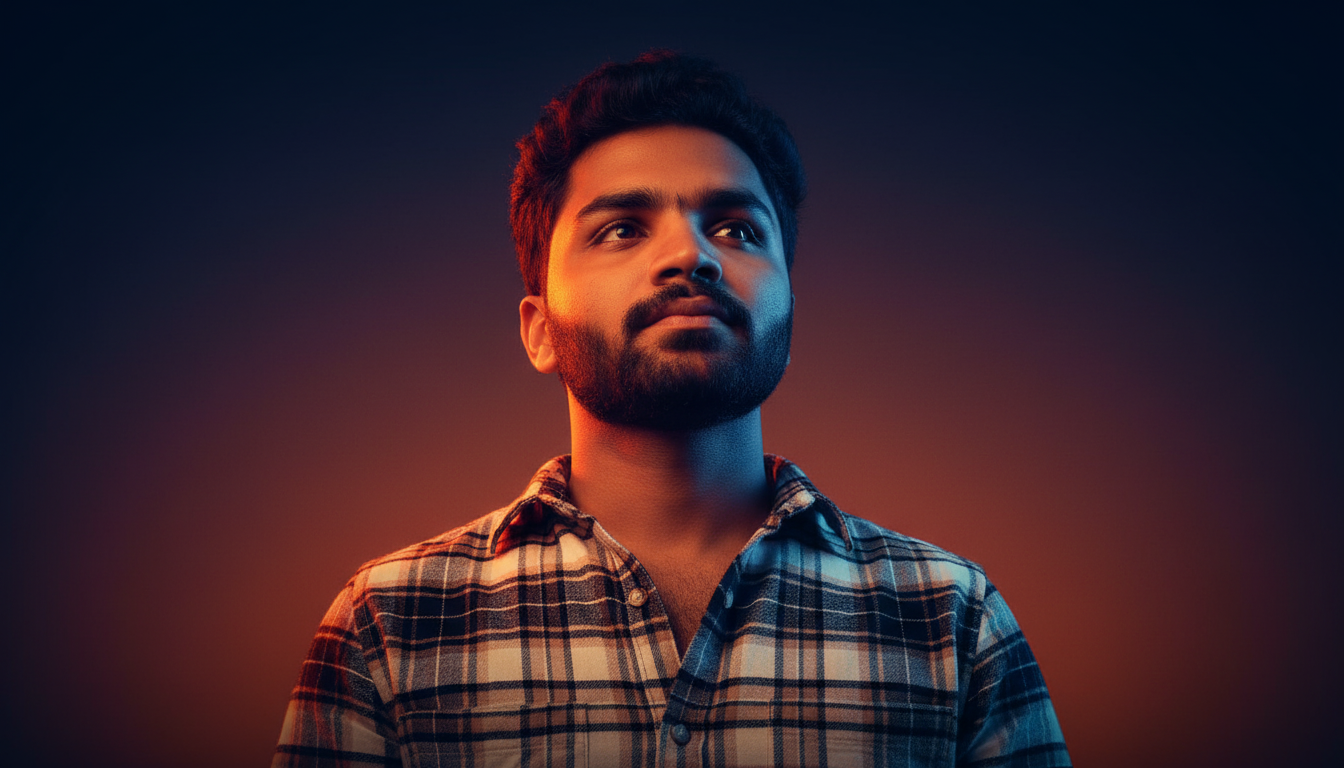
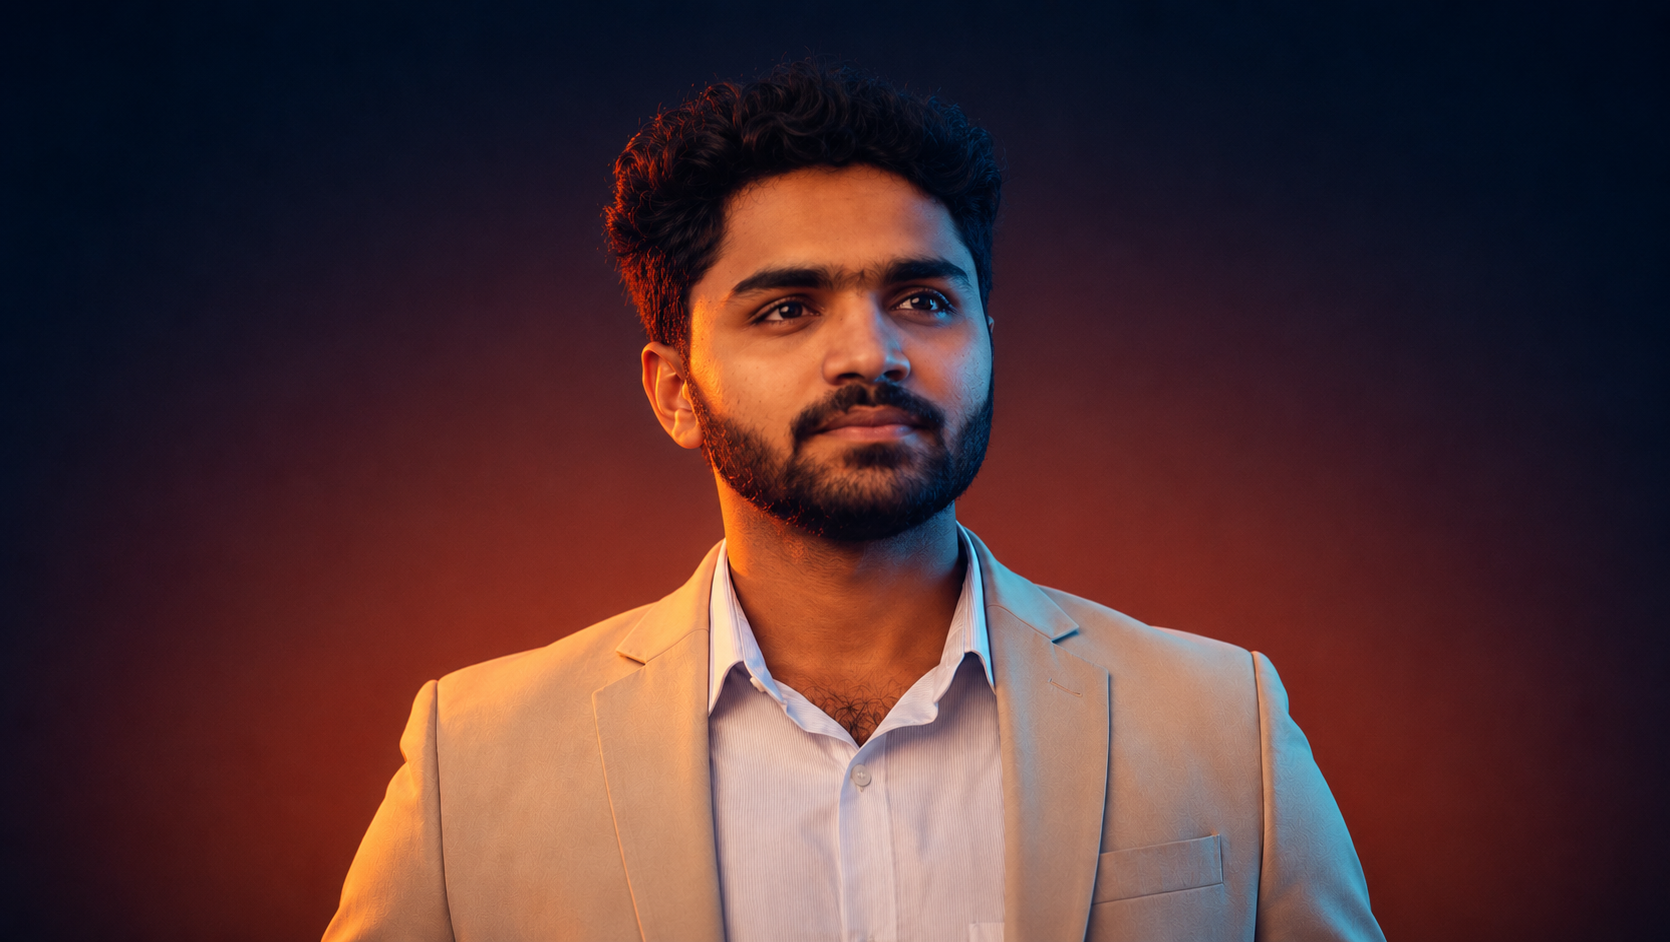
feat: add NoirKart & CanteenBites, update CGPA, bio, and image assets

Changed region(s): [[0.1562, 0.0938, 0.8438, 1.0], [0.4688, 0.0625, 0.5, 0.0938]]

diff --git a/src/components/AboutSection.tsx b/src/components/AboutSection.tsx
@@ -46,10 +46,10 @@ const themes: Record<HeroMode, AboutTheme> = {
     barBg:        "rgba(255,45,45,0.1)",
     barFill:      "linear-gradient(90deg,#ff2d2d,#cc0000)", barGlow: "0 0 10px rgba(255,45,45,0.35)",
     tagBg:        "rgba(255,45,45,0.08)", tagBorder: "rgba(255,45,45,0.25)", tagColor: "#ff2d2d",
-    imgSrc:       "/personal-image.png",
+    imgSrc:       "/personal-image.jpeg",
     imgFilter:    "brightness(1.1) contrast(1.1)",
     imgLabel:     "PREM SAI SURISETTI — WEB SLINGER OF CODE",
-    bio1:         "I am a Full Stack Developer weaving together", bio1Accent: "logic and scale",
+    bio1:         "I am the Founder of NoirKart, weaving together", bio1Accent: "logic and scale",
     bio2:         "In a world where digital experiences are the new frontier, I specialize in architecting high-performance web applications that serve as the connective tissue for modern enterprises. From the initial thread of a frontend concept to the robust web of a backend infrastructure, my mission is to deliver seamless, scalable solutions. Like a web-slinger protecting the neighborhood, I guard the integrity of every pixel and line of code, ensuring that every project I touch is built with the precision and reliability required for the weight of today's digital demands.",
     quote:        "\"With great power comes great responsibility.\"", quoteAuthor: "— Uncle Ben",
     glowShadow:   "0 0 40px rgba(255,45,45,0.4)",
@@ -64,10 +64,10 @@ const themes: Record<HeroMode, AboutTheme> = {
     barBg:        "rgba(80,0,0,0.4)",
     barFill:      "linear-gradient(90deg,#880000,#ff2200)", barGlow: "0 0 8px rgba(255,34,0,0.6)",
     tagBg:        "rgba(180,0,0,0.2)", tagBorder: "rgba(200,0,0,0.5)", tagColor: "#ff6666",
-    imgSrc:       "/personal-image.png",
+    imgSrc:       "/personal-image.jpeg",
     imgFilter:    "brightness(0.9) saturate(1.1)",
     imgLabel:     "PREM SAI SURISETTI — ENGINEER OF INTELLIGENT SYSTEMS",
-    bio1:         "I am a Full Stack Developer architecting", bio1Accent: "high-performance systems",
+    bio1:         "I am the Founder of NoirKart, engineering", bio1Accent: "high-performance systems",
     bio2:         "Leveraging Stark-level precision and nanotech-inspired efficiency, I engineer digital infrastructures that are as robust as a vibranium-titanium alloy. My approach to full-stack development is rooted in the belief that every line of code should be a piece of a larger, intelligent ecosystem. Whether I'm optimizing a React-driven heads-up display or architecting a massive Node.js server array, I focus on creating systems that are not just functional, but revolutionary. I don't just build websites; I build the future of the web, one module at a time.",
     quote:        "\"My armor was never a distraction. I am Iron Man.\"", quoteAuthor: "— Tony Stark",
     glowShadow:   "0 0 30px rgba(220,30,0,0.6)",
@@ -82,10 +82,10 @@ const themes: Record<HeroMode, AboutTheme> = {
     barBg:        "rgba(80,0,0,0.4)",
     barFill:      "linear-gradient(90deg,#7a0000,#ee1010)", barGlow: "0 0 7px rgba(220,20,0,0.6)",
     tagBg:        "rgba(150,0,0,0.45)", tagBorder: "rgba(255,250,250,1)", tagColor: "#ffffff",
-    imgSrc:       "/personal-image.png",
+    imgSrc:       "/personal-image.jpeg",
     imgFilter:    "brightness(0.85) contrast(1.1)",
     imgLabel:     "PREM SAI SURISETTI — THE MERC WITH A MOUSE",
-    bio1:         "I am a Full Stack Developer with", bio1Accent: "Maximum Efficiency,",
+    bio1:         "I am the Founder of NoirKart, working with", bio1Accent: "Maximum Efficiency,",
     bio2:         "Listen, I don't just 'code'—I go in with Maximum Effort and carve out digital masterpieces that make other developers cry in their chimichangas. Breaking the fourth wall of boring UI is my specialty, delivering full-stack apps that are leaner, faster, and cooler than anything else on the market. When I'm not optimizing a server's healing factor or cleaning up messy legacy code like a mercenary on a mission, I'm finding high-octane ways to sell web pages that actually convert. It's about being the best at what I do, and what I do is build scalable applications that kick butt.",
     quote:        "\"With great power comes great irresponsibility. Just kidding. Maximum effort.\"",
     quoteAuthor:  "— Deadpool",
@@ -101,10 +101,10 @@ const themes: Record<HeroMode, AboutTheme> = {
     barBg:        "rgba(50,40,0,0.5)",
     barFill:      "linear-gradient(90deg,#4a3800,#c89800)", barGlow: "0 0 7px rgba(220,160,0,0.5)",
     tagBg:        "rgba(80,60,0,0.3)", tagBorder: "rgba(180,140,0,0.4)", tagColor: "#fdc700",
-    imgSrc:       "/personal-image.png",
+    imgSrc:       "/personal-image.jpeg",
     imgFilter:    "brightness(0.8) contrast(1.2) grayscale(20%)",
     imgLabel:     "PREM SAI SURISETTI — THE DARK DEVELOPER",
-    bio1:         "I am a Full Stack Developer bringing", bio1Accent: "order to chaos,",
+    bio1:         "I am the Founder of NoirKart, bringing", bio1Accent: "order to chaos,",
     bio2:         "Operating from the shadows of complex logic, I architect secure and highly scalable digital environments that stand as fortresses of engineering excellence. My methodology is defined by an unwavering dedication to performance and security, ensuring that every application I build can withstand the toughest digital storms. Much like the guardian of Gotham, I am a silent protector of data integrity and user experience, building symbols of reliability that users can trust. From optimized database schemas to high-fidelity frontend interfaces, I bring a methodical, disciplined approach to the relentless pursuit of perfection.",
     quote:        "\"I am vengeance. I am the night. I am Batman.\"", quoteAuthor: "— Bruce Wayne",
     glowShadow:   "0 0 30px rgba(180,130,0,0.4)",
@@ -119,10 +119,10 @@ const themes: Record<HeroMode, AboutTheme> = {
     barBg:        "rgba(10,30,100,0.4)",
     barFill:      "linear-gradient(90deg,#002299,#4488ff)", barGlow: "0 0 7px rgba(60,120,255,0.5)",
     tagBg:        "rgba(10,30,110,0.35)", tagBorder: "rgba(40,100,240,0.4)", tagColor: "#ffc000",
-    imgSrc:       "/personal-image.png",
+    imgSrc:       "/personal-image.jpeg",
     imgFilter:    "brightness(1.0) saturate(1.2)",
     imgLabel:     "PREM SAI SURISETTI — FULL STACK POWERHOUSE",
-    bio1:         "I am a Full Stack Developer building", bio1Accent: "a better web,",
+    bio1:         "I am the Founder of NoirKart, building", bio1Accent: "a better web,",
     bio2:         "Driven by a commitment to truth in data and an unwavering belief in the power of modern engineering, I build applications that serve as a beacon for what is possible in the digital age. I possess the strength to lift entire server architectures and the vision to see through the most complex frontend challenges. My goal is to create a web that is as fast as a speeding bullet and as powerful as a locomotive, empowering people with tools that are both resilient and inspiring. I am a full-stack powerhouse dedicated to the relentless pursuit of excellence, fighting for a more efficient and impactful digital world.",
     quote:        "\"You will give the people of Earth an ideal to strive towards.\"", quoteAuthor: "— Jor-El",
     glowShadow:   "0 0 30px rgba(50,100,255,0.4)",
@@ -196,7 +196,7 @@ function ModeAbout({ mode }: { mode: HeroMode }) {
                  <div className="absolute w-2 h-2 rounded-full -left-[5px] top-1.5" style={{ background: t.accentColor, boxShadow: `0 0 10px ${t.accentColor}` }} />
                  <h4 className="text-white font-bold text-lg tracking-wide uppercase italic">KL UNIVERSITY, HYDERABAD</h4>
                  <p className="text-white/80 text-sm font-mono tracking-widest">B.TECH IN COMPUTER SCIENCE</p>
-                 <p className="text-sm font-mono tracking-widest mt-1" style={{ color: t.accentColor }}>CGPA: 9.58</p>
+                 <p className="text-sm font-mono tracking-widest mt-1" style={{ color: t.accentColor }}>CGPA: 9.64</p>
                </div>
 
                <div className="pt-4 mt-4" style={{ borderTop: `1px solid ${t.cardBorder}` }}>

diff --git a/src/components/ProjectsSection.tsx b/src/components/ProjectsSection.tsx
@@ -28,6 +28,7 @@ type ProjectTheme = {
   imgFilter:     string;
   glowShadow:    string;
   bgSrc:         string;
+  hoverImgSrc:   string;
   menuItems:     MenuItem[];
 };
 
@@ -44,10 +45,11 @@ const themes: Record<HeroMode, ProjectTheme> = {
     hoverBorder:   "rgba(255,45,45,0.7)",
     hoverShadow:   "0 0 25px rgba(255,45,45,0.25)",
     cornerBorder:  "#ff2d2d",
-    imgSrc:        "/spiderman-image.png",
+    imgSrc:        "/personal-image-2.jpeg",
     imgFilter:     "brightness(1.1) contrast(1.1) grayscale(10%)",
     glowShadow:    "0 0 40px rgba(255,45,45,0.4)",
     bgSrc:         "/spiderman-bg.png",
+    hoverImgSrc:   "/personal-image-2.jpeg",
     menuItems: [
       { title: "Projects",   subtitle: "WEB WORK",  url: "/projects" },
       { title: "Achievements", subtitle: "TROPHIES", url: "/achievements" },
@@ -68,10 +70,11 @@ const themes: Record<HeroMode, ProjectTheme> = {
     hoverBorder:   "rgba(255,30,0,0.8)",
     hoverShadow:   "0 0 25px rgba(220,0,0,0.4)",
     cornerBorder:  "#ff2200",
-    imgSrc:        "/ironman-image.png",
+    imgSrc:        "/personal-image-2.jpeg",
     imgFilter:     "sepia(15%) saturate(1.2) brightness(0.9)",
     glowShadow:    "0 0 30px rgba(220,30,0,0.6)",
     bgSrc:         "/ironman-bg.png",
+    hoverImgSrc:   "/personal-image.jpeg",
     menuItems: [
       { title: "Projects",   subtitle: "STARK TECH", url: "/projects" },
       { title: "Achievements", subtitle: "TROPHIES", url: "/achievements" },
@@ -92,10 +95,11 @@ const themes: Record<HeroMode, ProjectTheme> = {
     hoverBorder:   "rgba(220,20,20,0.8)",
     hoverShadow:   "0 0 25px rgba(200,0,0,0.4)",
     cornerBorder:  "#dc1414",
-    imgSrc:        "/deadpool-image.png",
+    imgSrc:        "/personal-image-2.jpeg",
     imgFilter:     "brightness(0.85) contrast(1.1)",
     glowShadow:    "0 0 30px rgba(200,20,0,0.5)",
     bgSrc:         "/deadpool-bg.jpg",
+    hoverImgSrc:   "/personal-image.jpeg",
     menuItems: [
       { title: "Projects",   subtitle: "MAXIMUM EFFORT", url: "/projects" },
       { title: "Achievements", subtitle: "TROPHIES", url: "/achievements" },
@@ -116,10 +120,11 @@ const themes: Record<HeroMode, ProjectTheme> = {
     hoverBorder:   "rgba(220,170,0,0.7)",
     hoverShadow:   "0 0 25px rgba(180,130,0,0.35)",
     cornerBorder:  "#fdc700",
-    imgSrc:        "/batman-image.png",
+    imgSrc:        "/personal-image-2.jpeg",
     imgFilter:     "brightness(0.8) contrast(1.2) grayscale(10%)",
     glowShadow:    "0 0 30px rgba(180,130,0,0.4)",
     bgSrc:         "/batman-bg.jpg",
+    hoverImgSrc:   "/personal-image.jpeg",
     menuItems: [
       { title: "Projects",   subtitle: "BAT-TECH",   url: "/projects" },
       { title: "Achievements", subtitle: "TROPHIES", url: "/achievements" },
@@ -140,10 +145,11 @@ const themes: Record<HeroMode, ProjectTheme> = {
     hoverBorder:   "rgba(80,150,255,0.7)",
     hoverShadow:   "0 0 25px rgba(40,100,220,0.35)",
     cornerBorder:  "#4488ff",
-    imgSrc:        "/superman-image.png",
+    imgSrc:        "/personal-image-2.jpeg",
     imgFilter:     "brightness(0.85) saturate(1.15)",
     glowShadow:    "0 0 30px rgba(50,100,255,0.4)",
     bgSrc:         "/superman-bg.jpg",
+    hoverImgSrc:   "/personal-image.jpeg",
     menuItems: [
       { title: "Projects",   subtitle: "JUSTICE",     url: "/projects" },
       { title: "Achievements", subtitle: "TROPHIES", url: "/achievements" },
@@ -286,7 +292,7 @@ function ModeProjects({ mode }: { mode: HeroMode }) {
                 style={{ filter: t.imgFilter, transform: "translateZ(0px)" }} />
 
               {/* Anamorphic Cursor-Revealed Image */}
-              <img src="/prem-image.png" alt="Prem Sai Surisetti" 
+              <img src={t.hoverImgSrc} alt="Prem Sai Surisetti" 
                 className="absolute top-0 left-0 w-full h-full object-cover object-top pointer-events-none transition-all duration-100 ease-out"
                 style={{ 
                   opacity: isHovered ? 1 : 0,

diff --git a/src/pages/Projects.tsx b/src/pages/Projects.tsx
@@ -11,6 +11,24 @@ import SupermanBackground from "@/components/SupermanBackground";
 
 const projects = [
   {
+    title: "NoirKart",
+    tagline: "Premium Curated E-Commerce & Deals Platform",
+    image: "/noirkart-bg.png",
+    url: "https://noir-kart.vercel.app/",
+    github: "https://github.com/premsaisurisetty-a11y/NoirKart",
+    context: "NoirKart is a premium, high-performance curated e-commerce platform designed for exclusive electronics, audio gear, and lifestyle accessories. Built with speed and security in mind, it integrates a real-time cloud database, secure user authentication, and a custom gamified rewards system (NoirCoins) to elevate the shopping experience. Featuring modern glassmorphism aesthetics, fluid micro-interactions, and professional SEO optimization, it delivers a state-of-the-art storefront.",
+    features: ["Curated Premium Deals", "Intelligent Loyalty Rewards (NoirCoins)", "Secure Firebase/Firestore Backend", "Cinematic Dark Mode UI"],
+  },
+  {
+    title: "CanteenBites",
+    tagline: "Real-Time Campus Canteen Pre-Ordering System",
+    image: "/canteenbites-bg.png",
+    url: "https://canteenbites.vercel.app/",
+    github: "https://github.com/premsaisurisetty-a11y/Canteen-PreOrder-System",
+    context: "CanteenBites is a high-efficiency campus canteen pre-ordering system designed to eliminate long queues and streamline meal pickups. Built with React, Vite, and Tailwind CSS, it integrates a real-time Google Firebase Cloud Firestore database for instantaneous order tracking and inventory management. Featuring dual student/admin panels, automated QR ticket generation, and a secure payment gateway integration, it transforms campus dining into a seamless contactless experience.",
+    features: ["Real-Time Firestore Database", "Student & Admin Dashboards", "Automated QR Receipt System", "Contactless Payment Gateway"],
+  },
+  {
     title: "Learn 2 Code",
     tagline: "Mastering the Algorithmic Frontier",
     image: "/learn2code-bg.png",

diff --git a/public/portfolio.html b/public/portfolio.html
@@ -353,10 +353,10 @@
   <div class="header">
     <div class="header-top">
       <div style="display:flex; align-items:center; gap:24px;">
-        <img src="portfolio-image.png" alt="Prem Sai Surisetti" class="header-img" />
+        <img src="portfolio-image.jpeg" alt="Prem Sai Surisetti" class="header-img" />
         <div>
           <div class="name">PREM SAI<br/><span>SURISETTI</span></div>
-          <div class="role">Full Stack Developer</div>
+          <div class="role">Founder of NoirKart</div>
         </div>
       </div>
     </div>

diff --git a/src/components/HeroSection.tsx b/src/components/HeroSection.tsx
@@ -205,7 +205,7 @@ export default function HeroSection({ mode, onModeChange }: HeroProps) {
           className="mt-6 font-mono text-sm md:text-base lg:text-lg tracking-[0.3em] text-white uppercase text-center backdrop-blur-sm px-4 py-1 rounded-full border border-primary bg-primary/20 transition-all duration-500"
           style={{ boxShadow: "0 0 20px hsl(var(--primary) / 0.4)" }}
         >
-          Full Stack Developer
+          Founder of NoirKart
         </p>
       </div>
 
